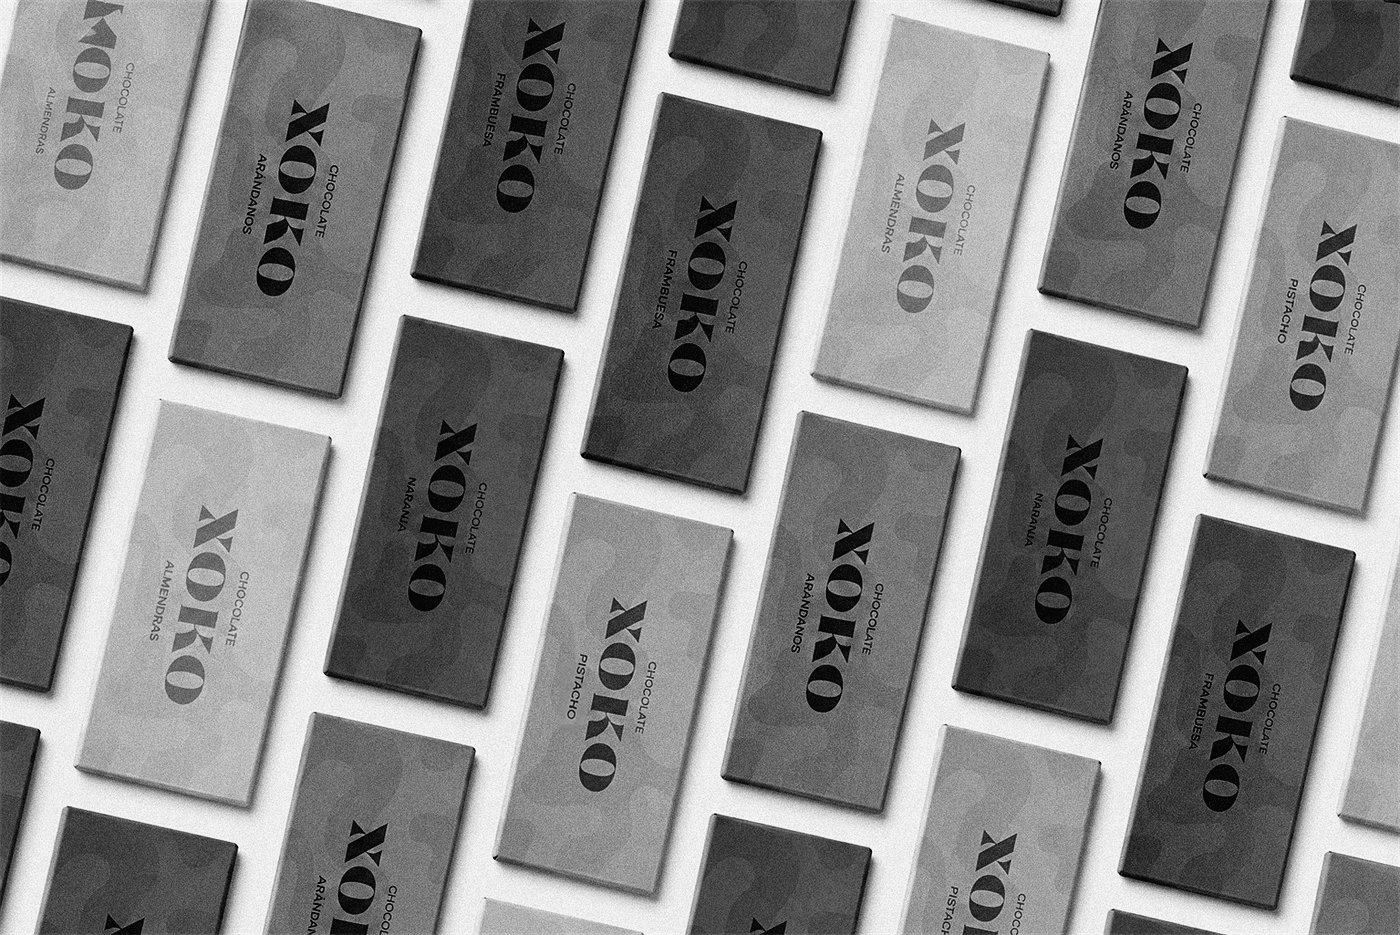
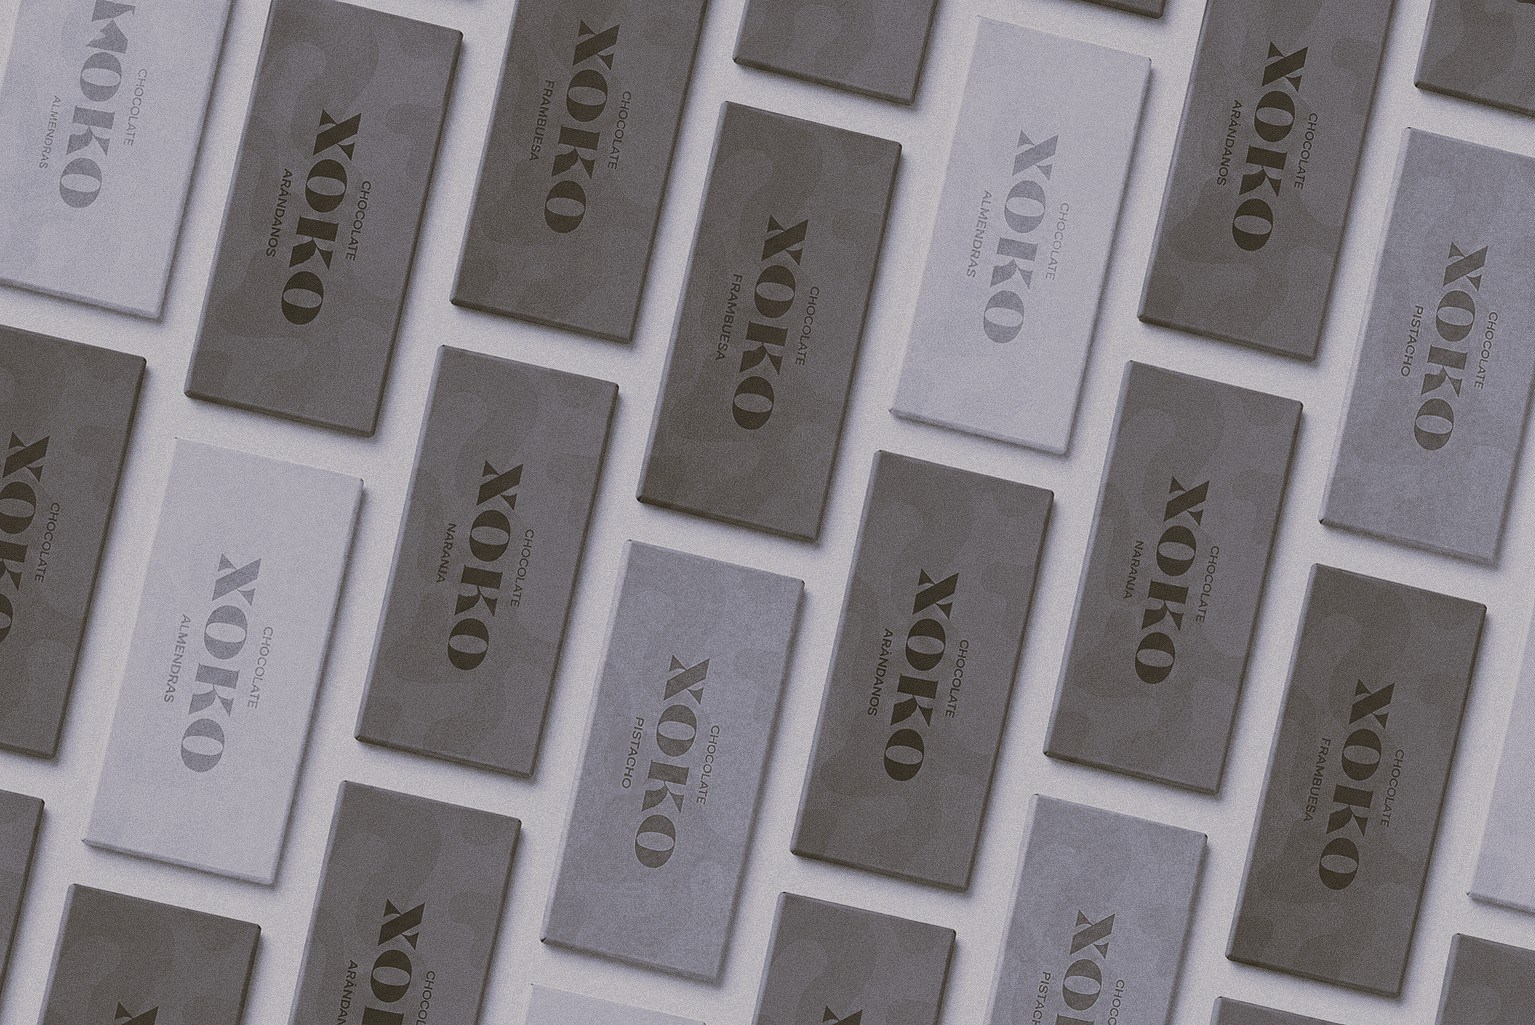
Use user-provided black & white covers for carousel and work grid

diff --git a/index.html b/index.html
@@ -54,23 +54,23 @@
     </div>
     <div class="work-grid">
       <a class="work-card" href="madma.html">
-        <div class="thumb"><img class="bw" src="images/covers/madma-bw.jpg" alt="MADMA"><img class="col" src="images/covers/madma.jpg" alt=""></div>
+        <div class="thumb"><img class="bw" src="images/covers/madma-bw.jpg?v=2" alt="MADMA"><img class="col" src="images/covers/madma.jpg" alt=""></div>
         <div class="meta"><h3>MADMA</h3><span>Brand identity</span></div>
       </a>
       <a class="work-card" href="sol-sal.html">
-        <div class="thumb"><img class="bw" src="images/covers/sol-sal-bw.jpg" alt="SOL &amp; SAL"><img class="col" src="images/covers/sol-sal.jpg" alt=""></div>
+        <div class="thumb"><img class="bw" src="images/covers/sol-sal-bw.jpg?v=2" alt="SOL &amp; SAL"><img class="col" src="images/covers/sol-sal.jpg" alt=""></div>
         <div class="meta"><h3>SOL &amp; SAL</h3><span>Brand identity</span></div>
       </a>
       <a class="work-card" href="xoko.html">
-        <div class="thumb"><img class="bw" src="images/covers/xoko-bw.jpg" alt="XOKO"><img class="col" src="images/covers/xoko.jpg" alt=""></div>
+        <div class="thumb"><img class="bw" src="images/covers/xoko-bw.jpg?v=2" alt="XOKO"><img class="col" src="images/covers/xoko.jpg" alt=""></div>
         <div class="meta"><h3>XOKO</h3><span>Packaging</span></div>
       </a>
       <a class="work-card" href="san-isidro.html">
-        <div class="thumb"><img class="bw" src="images/covers/san-isidro-bw.jpg" alt="San Isidro 2025" style="object-position: 50% 40%"><img class="col" src="images/covers/san-isidro.jpg" alt="" style="object-position: 50% 40%"></div>
+        <div class="thumb"><img class="bw" src="images/covers/san-isidro-bw.jpg?v=2" alt="San Isidro 2025" style="object-position: 50% 40%"><img class="col" src="images/covers/san-isidro.jpg" alt="" style="object-position: 50% 40%"></div>
         <div class="meta"><h3>San Isidro 2025</h3><span>Poster design</span></div>
       </a>
       <a class="work-card" href="espacio-emocional.html">
-        <div class="thumb"><img class="bw" src="images/covers/espacio-emocional-bw.jpg" alt="Espacio Emocional"><img class="col" src="images/covers/espacio-emocional.jpg" alt=""></div>
+        <div class="thumb"><img class="bw" src="images/covers/espacio-emocional-bw.jpg?v=2" alt="Espacio Emocional"><img class="col" src="images/covers/espacio-emocional.jpg" alt=""></div>
         <div class="meta"><h3>Espacio Emocional</h3><span>Editorial &amp; research</span></div>
       </a>
     </div>
@@ -319,11 +319,11 @@
   if (!root) return;
 
   var DATA = [
-    { href: 'madma.html', src: 'images/covers/madma.jpg', bw: 'images/covers/madma-bw.jpg', title: 'MADMA', pos: '50% 50%' },
-    { href: 'sol-sal.html', src: 'images/covers/sol-sal.jpg', bw: 'images/covers/sol-sal-bw.jpg', title: 'SOL & SAL', pos: '50% 50%' },
-    { href: 'xoko.html', src: 'images/covers/xoko.jpg', bw: 'images/covers/xoko-bw.jpg', title: 'XOKO', pos: '50% 50%' },
-    { href: 'san-isidro.html', src: 'images/covers/san-isidro.jpg', bw: 'images/covers/san-isidro-bw.jpg', title: 'San Isidro 2025', pos: '50% 40%' },
-    { href: 'espacio-emocional.html', src: 'images/covers/espacio-emocional.jpg', bw: 'images/covers/espacio-emocional-bw.jpg', title: 'Espacio Emocional', pos: '50% 50%' }
+    { href: 'madma.html', src: 'images/covers/madma.jpg', bw: 'images/covers/madma-bw.jpg?v=2', title: 'MADMA', pos: '50% 50%' },
+    { href: 'sol-sal.html', src: 'images/covers/sol-sal.jpg', bw: 'images/covers/sol-sal-bw.jpg?v=2', title: 'SOL & SAL', pos: '50% 50%' },
+    { href: 'xoko.html', src: 'images/covers/xoko.jpg', bw: 'images/covers/xoko-bw.jpg?v=2', title: 'XOKO', pos: '50% 50%' },
+    { href: 'san-isidro.html', src: 'images/covers/san-isidro.jpg', bw: 'images/covers/san-isidro-bw.jpg?v=2', title: 'San Isidro 2025', pos: '50% 40%' },
+    { href: 'espacio-emocional.html', src: 'images/covers/espacio-emocional.jpg', bw: 'images/covers/espacio-emocional-bw.jpg?v=2', title: 'Espacio Emocional', pos: '50% 50%' }
   ];
   var N = DATA.length;
   var RANGE = 3, SLOTS = RANGE * 2 + 1;
